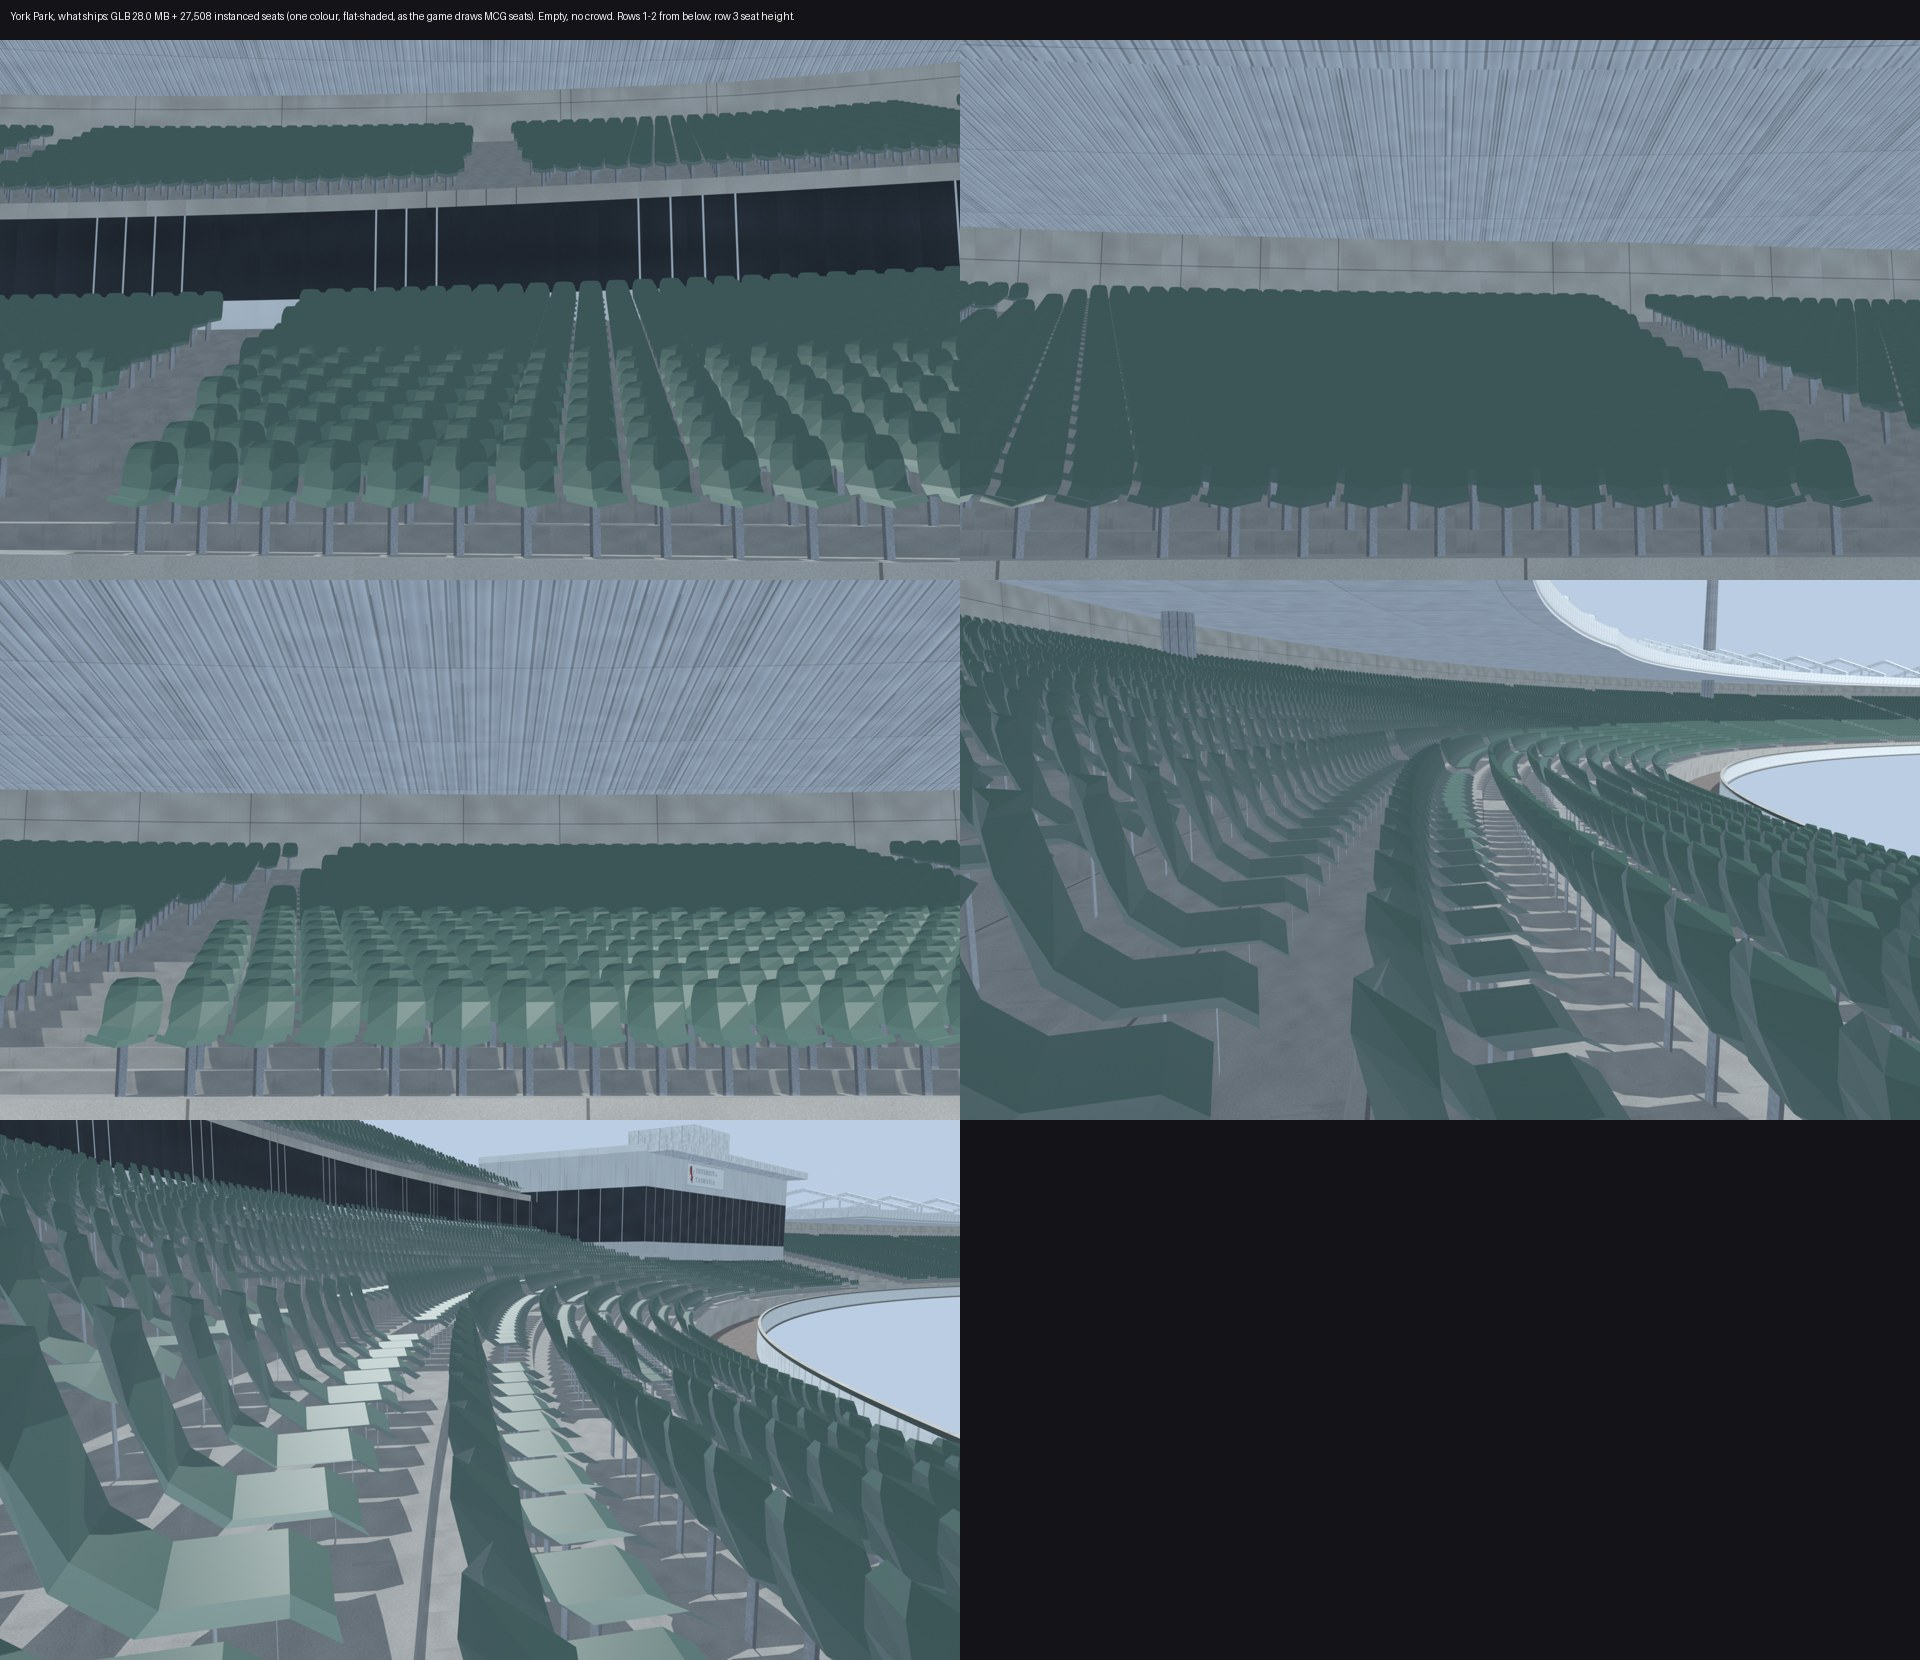
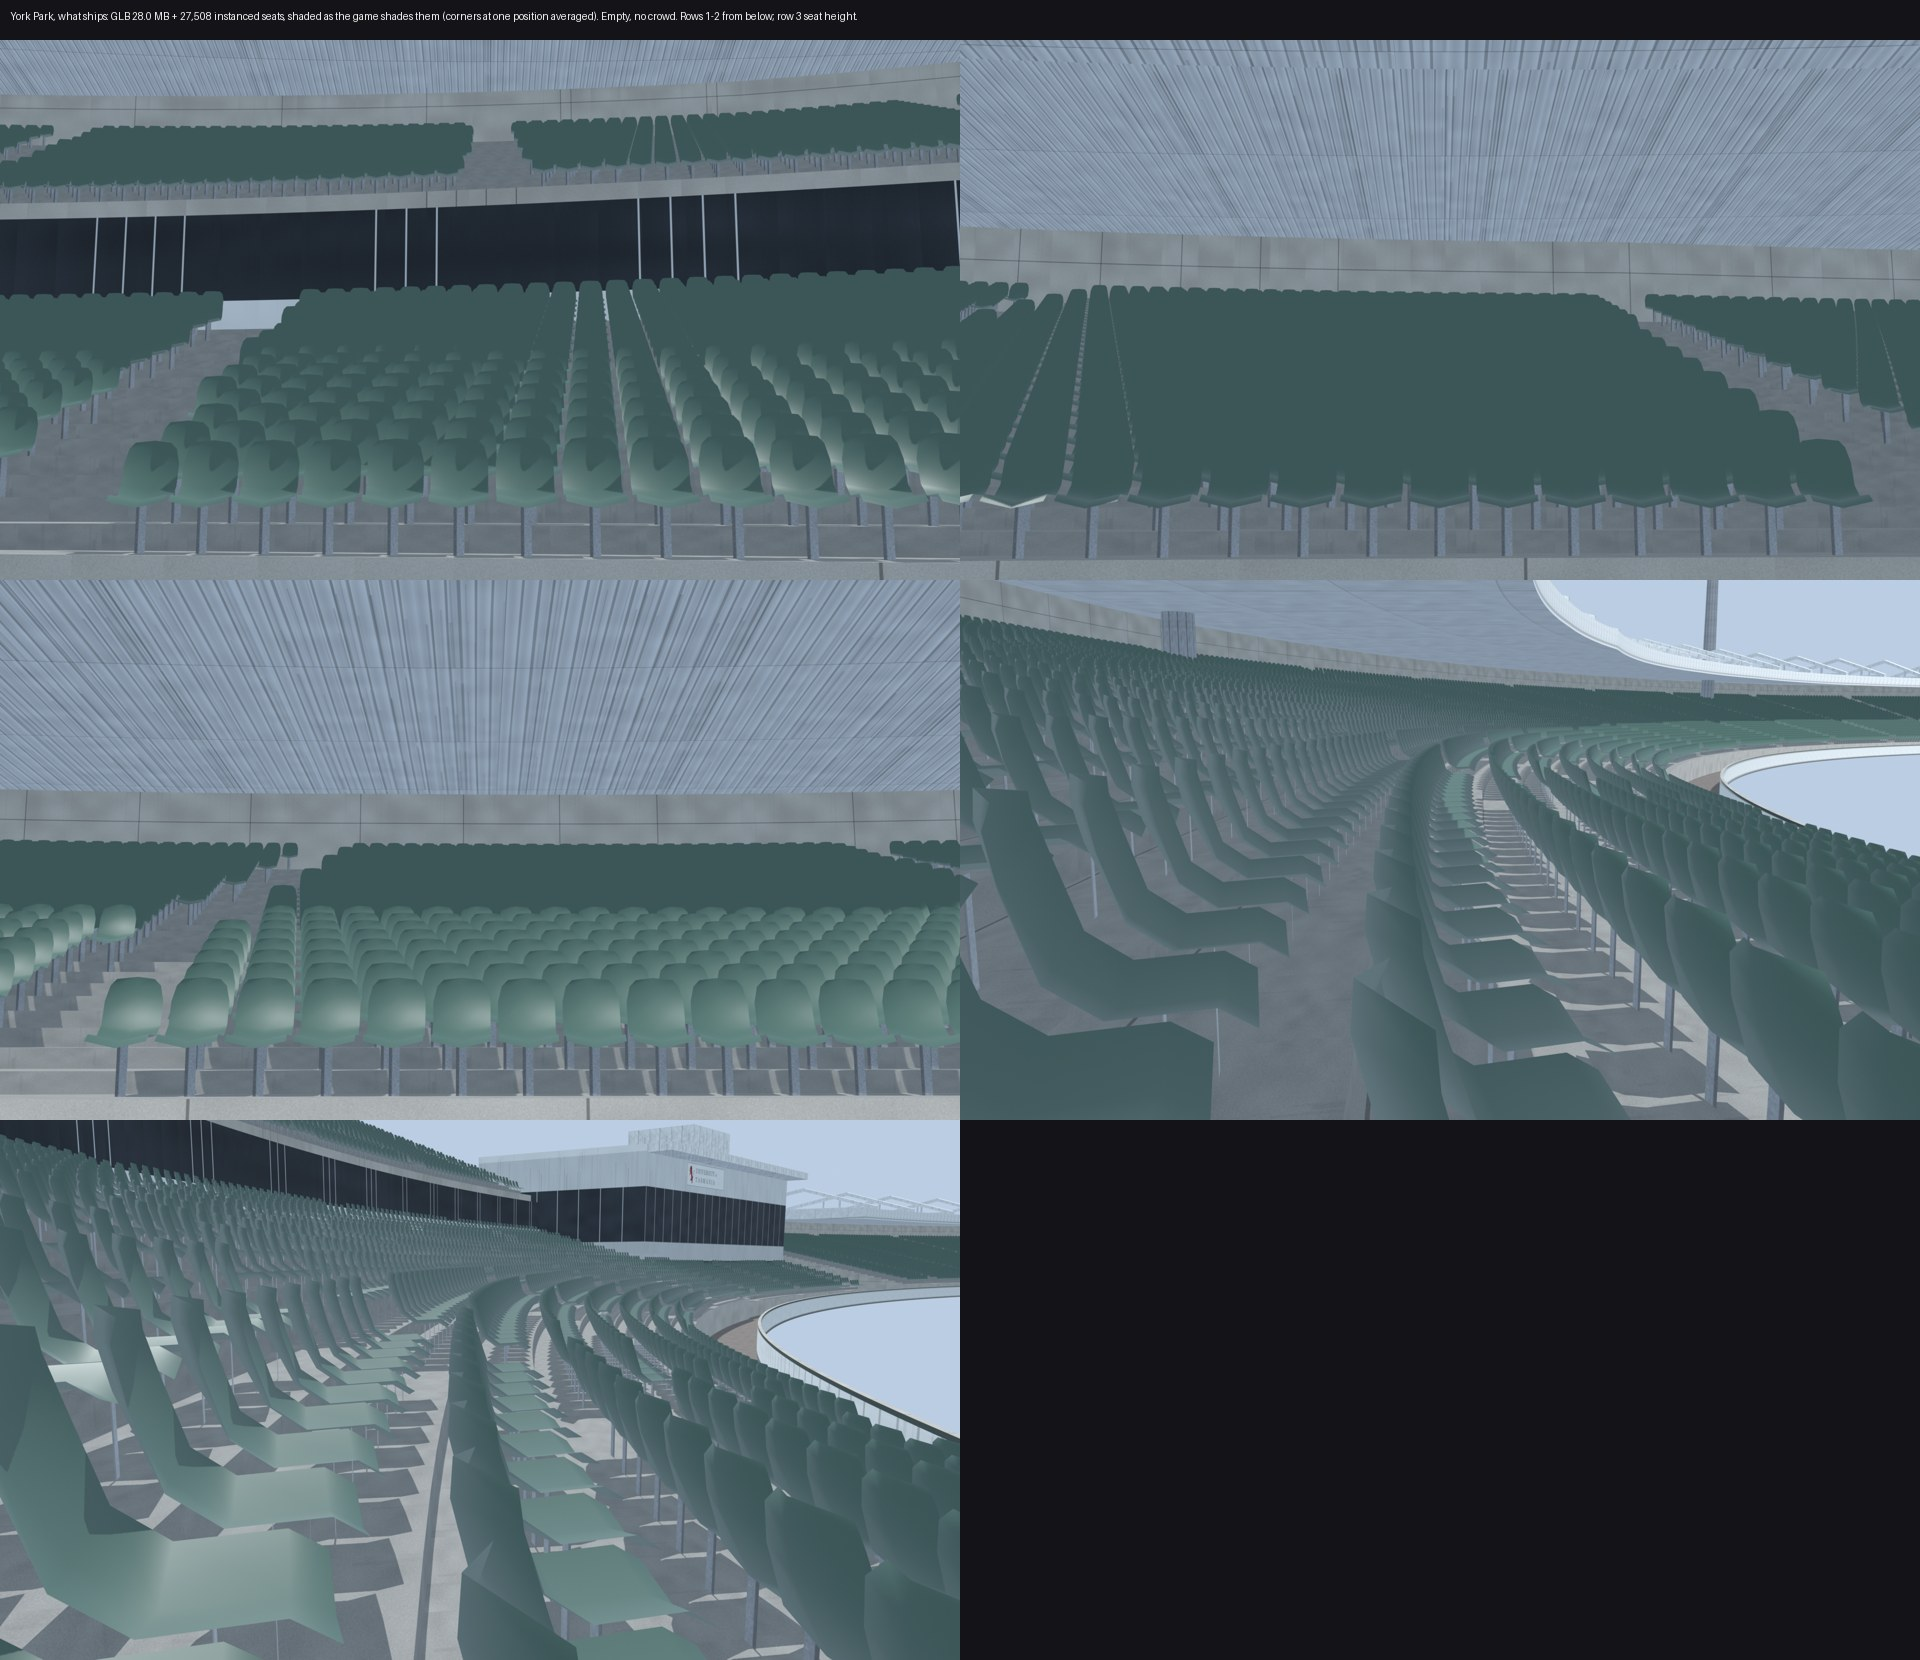
York Park: board 11 shades the instanced seats the way Godot does (row 202 2b)

diff --git a/tools/grounds/york_park/model/proofs.py b/tools/grounds/york_park/model/proofs.py
@@ -79,6 +79,10 @@ if 'ship' in jobs:   # later jobs film what ships: the exported GLB plus the sea
     sm.node_tree.nodes['Principled BSDF'].inputs['Base Color'].default_value = (*c, 1)
     print('seat mean colour (linear):', c)
     me.materials.append(sm); me.update()
+    # shade as Godot does: SurfaceTool.generate_normals averages the normals of every corner at the same position
+    import bmesh
+    bm = bmesh.new(); bm.from_mesh(me); bmesh.ops.remove_doubles(bm, verts=bm.verts, dist=1e-5); bm.to_mesh(me); bm.free()
+    for p in me.polygons: p.use_smooth = True
     ob = bpy.data.objects.new('seats_inst', me); sc.collection.objects.link(ob)
     dg = bpy.context.evaluated_depsgraph_get()
 if 'stills' in jobs:
